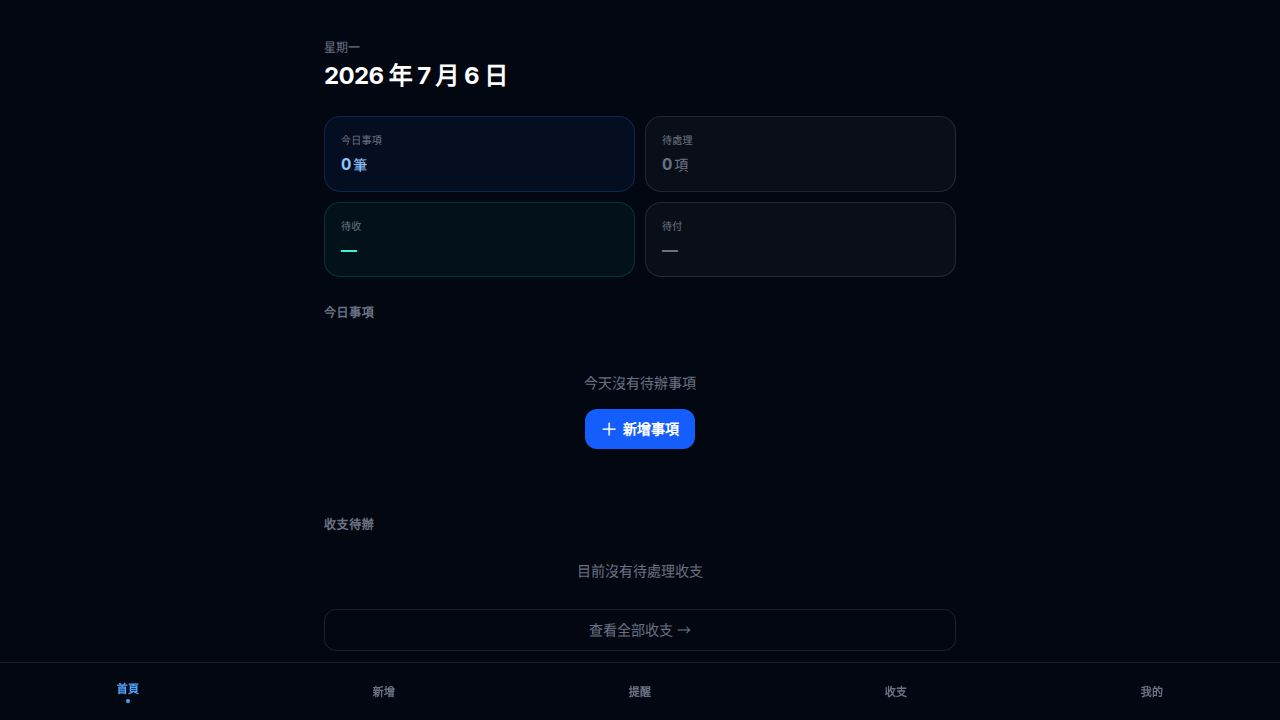
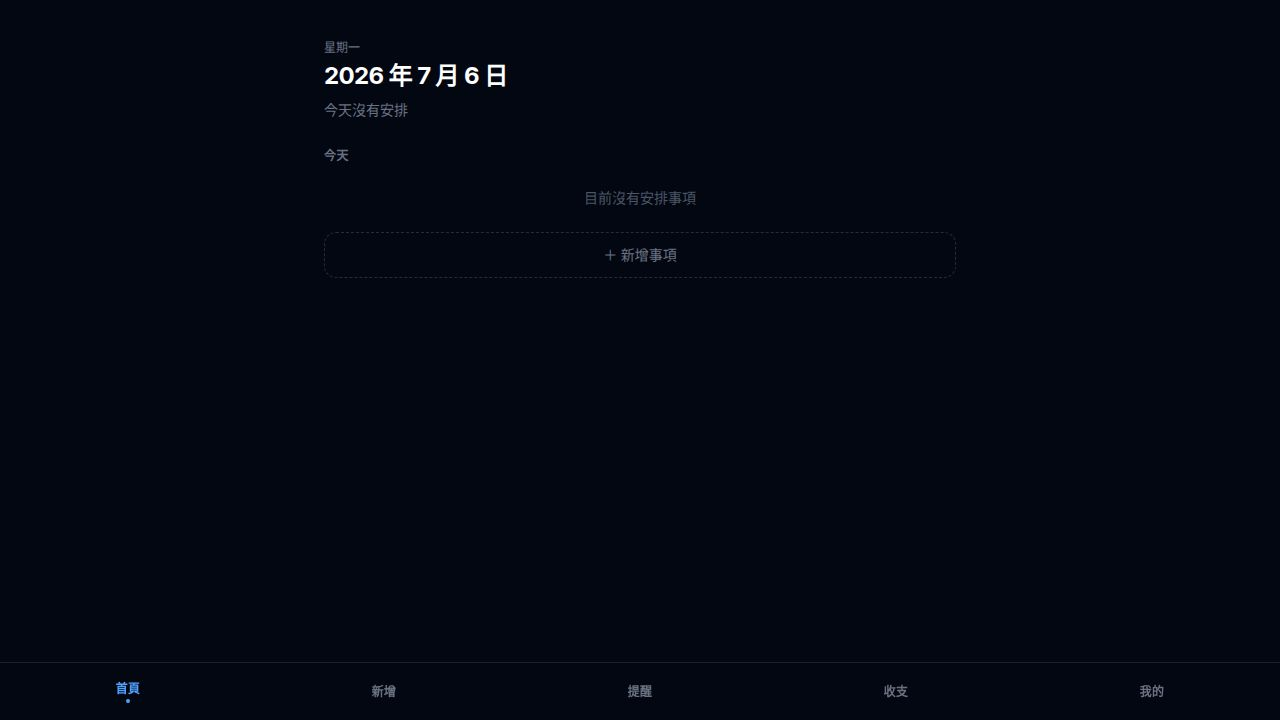
Add a confirmation prompt when deleting reminders with linked financial entries
Implement a confirmation dialog for deleting reminders that have associated financial entries, preventing accidental data loss.

Replit-Commit-Author: Agent
Replit-Commit-Session-Id: ae7b3811-7dad-4ecd-95f7-960ffc069649
Replit-Commit-Checkpoint-Type: full_checkpoint
Replit-Commit-Event-Id: eaf966d2-1296-41af-8bf6-cb78c412d6c8
Replit-Commit-Screenshot-Url: https://storage.googleapis.com/screenshot-production-us-central1/91c0c59d-1274-4273-bf61-4ce12e05dd7e/ae7b3811-7dad-4ecd-95f7-960ffc069649/od4HIWa
Replit-Helium-Checkpoint-Created: true

diff --git a/artifacts/lifepilot/src/App.tsx b/artifacts/lifepilot/src/App.tsx
@@ -860,13 +860,33 @@ export default function App() {
   const [createConfirmPending, setCreateConfirmPending] = useState(false);
   const [missingDateCount, setMissingDateCount] = useState(0);
 
-  function handleDeleteReminder(id: string) {
-    const entries = loadFinanceEntries();
-    const hasLinked = entries.some((e) => e.sourceReminderId === id);
-    if (hasLinked) {
-      saveFinanceEntries(entries.map((e) =>
-        e.sourceReminderId === id ? { ...e, sourceReminderId: undefined } : e
+  // ── Delete confirmation when reminder has linked FinanceEntries ──────────────
+  const [deleteFinancePrompt, setDeleteFinancePrompt] = useState<{
+    reminderId: string;
+    fromEdit: boolean;
+    linkedCount: number;
+  } | null>(null);
+
+  function executeDeleteReminder(reminderId: string, alsoDeleteFinance: boolean, fromEdit: boolean) {
+    const allEntries = loadFinanceEntries();
+    if (alsoDeleteFinance) {
+      saveFinanceEntries(allEntries.filter((e) => e.sourceReminderId !== reminderId));
+    } else {
+      saveFinanceEntries(allEntries.map((e) =>
+        e.sourceReminderId === reminderId ? { ...e, sourceReminderId: undefined } : e
       ));
+    }
+    setSavedReminders(deleteReminder(reminderId));
+    if (fromEdit) setEditingReminderId(null);
+    setDeleteFinancePrompt(null);
+  }
+
+  function handleDeleteReminder(id: string) {
+    const allEntries = loadFinanceEntries();
+    const linked = allEntries.filter((e) => e.sourceReminderId === id);
+    if (linked.length > 0) {
+      setDeleteFinancePrompt({ reminderId: id, fromEdit: false, linkedCount: linked.length });
+      return;
     }
     setSavedReminders(deleteReminder(id));
   }
@@ -893,12 +913,11 @@ export default function App() {
 
   function handleDeleteFromEdit() {
     if (!editingReminderId) return;
-    const entries = loadFinanceEntries();
-    const hasLinked = entries.some((e) => e.sourceReminderId === editingReminderId);
-    if (hasLinked) {
-      saveFinanceEntries(entries.map((e) =>
-        e.sourceReminderId === editingReminderId ? { ...e, sourceReminderId: undefined } : e
-      ));
+    const allEntries = loadFinanceEntries();
+    const linked = allEntries.filter((e) => e.sourceReminderId === editingReminderId);
+    if (linked.length > 0) {
+      setDeleteFinancePrompt({ reminderId: editingReminderId, fromEdit: true, linkedCount: linked.length });
+      return;
     }
     setSavedReminders(deleteReminder(editingReminderId));
     setEditingReminderId(null);
@@ -1053,6 +1072,8 @@ export default function App() {
 
         // Convert future-receivable amount → FinancialItem (type=receivable).
         // Clear item.amount so deriveFinancialItems in EditPage doesn't double-count.
+        // Set dueDate = event date so monthReceivable filter works even without an
+        // explicit payment due date in the message.
         const rawAmt = String(e.amount ?? "").replace(/[^\d.]/g, "");
         const amtNum = parseFloat(rawAmt);
         if (!isNaN(amtNum) && amtNum > 0) {
@@ -1061,6 +1082,7 @@ export default function App() {
             title: "待收款",
             type: "receivable",
             amount: amtNum,
+            dueDate: _startDateNorm || undefined,
           };
           item.financialItems = [fi];
           item.amount = ""; // prevent double-counting via legacy fallback path
@@ -1238,7 +1260,14 @@ export default function App() {
       financialStatus: item.financialStatus !== "none" ? item.financialStatus : undefined,
       expectedAmount: item.expectedAmount,
       financialDueDate: item.financialDueDate || undefined,
-      financialItems: item.financialItems?.length ? item.financialItems : undefined,
+      // Ensure every FinancialItem has a dueDate so monthReceivable/monthPayable
+      // filters can place it in the correct month. Fall back to the reminder's own date.
+      financialItems: item.financialItems?.length
+        ? item.financialItems.map((fi) => ({
+            ...fi,
+            dueDate: fi.dueDate || item.date || undefined,
+          }))
+        : undefined,
       workProfileId: item.workProfileId || undefined,
       templateData: item.templateData ?? undefined,
     }));
@@ -1622,6 +1651,55 @@ export default function App() {
             onClose={() => setShowWorkProfiles(false)}
             savedReminders={savedReminders}
           />
+        </div>
+      )}
+      {/* ── Delete reminder + linked finance confirmation dialog ────────────── */}
+      {deleteFinancePrompt && (
+        <div className="fixed inset-0 z-50 flex items-end sm:items-center justify-center bg-black/60 px-4 pb-6 sm:pb-0">
+          <div className="w-full max-w-sm rounded-2xl bg-gray-900 border border-white/10 p-5 shadow-2xl space-y-4">
+            <div>
+              <p className="text-base font-semibold text-white">刪除事項</p>
+              <p className="text-sm text-gray-400 mt-1.5">
+                此事項有 {deleteFinancePrompt.linkedCount} 筆關聯收支紀錄，
+                要一併刪除，還是保留收支紀錄？
+              </p>
+            </div>
+            <div className="space-y-2">
+              <button
+                type="button"
+                onClick={() =>
+                  executeDeleteReminder(
+                    deleteFinancePrompt.reminderId,
+                    true,
+                    deleteFinancePrompt.fromEdit,
+                  )
+                }
+                className="w-full py-3 rounded-xl bg-rose-600 hover:bg-rose-500 text-white font-semibold text-sm transition-colors"
+              >
+                一併刪除關聯收支
+              </button>
+              <button
+                type="button"
+                onClick={() =>
+                  executeDeleteReminder(
+                    deleteFinancePrompt.reminderId,
+                    false,
+                    deleteFinancePrompt.fromEdit,
+                  )
+                }
+                className="w-full py-3 rounded-xl bg-white/8 hover:bg-white/12 border border-white/10 text-gray-200 font-semibold text-sm transition-colors"
+              >
+                保留收支紀錄，僅刪除事項
+              </button>
+              <button
+                type="button"
+                onClick={() => setDeleteFinancePrompt(null)}
+                className="w-full py-2.5 rounded-xl text-gray-500 text-sm hover:text-gray-300 transition-colors"
+              >
+                取消
+              </button>
+            </div>
+          </div>
         </div>
       )}
       </main>

diff --git a/artifacts/lifepilot/src/pages/FinancePage.tsx b/artifacts/lifepilot/src/pages/FinancePage.tsx
@@ -160,12 +160,21 @@ export function FinancePage({ reminders: propReminders = [], onEditReminder, onR
     () => entries.filter((e) => e.type === "Expense"  && e.date.startsWith(prefix)),
     [entries, prefix],
   );
+  // Fall back to the reminder's own date when a FinancialItem has no explicit dueDate.
+  // This makes items without a separate due date appear in the correct month based on
+  // the event date, instead of being hidden from all monthly views.
   const monthReceivable = useMemo(
-    () => allReceivable.filter((r) => r.item.dueDate?.startsWith(prefix)),
+    () => allReceivable.filter((r) => {
+      const eff = r.item.dueDate || r.reminder.date;
+      return eff?.startsWith(prefix);
+    }),
     [allReceivable, prefix],
   );
   const monthPayable = useMemo(
-    () => allPayable.filter((r) => r.item.dueDate?.startsWith(prefix)),
+    () => allPayable.filter((r) => {
+      const eff = r.item.dueDate || r.reminder.date;
+      return eff?.startsWith(prefix);
+    }),
     [allPayable, prefix],
   );
 
@@ -186,12 +195,12 @@ export function FinancePage({ reminders: propReminders = [], onEditReminder, onR
     }
     if (filterType === "all" || filterType === "receivable") {
       monthReceivable.forEach((r) =>
-        items.push({ kind: "pending", pendingRef: r, sortDate: r.item.dueDate ?? "" }),
+        items.push({ kind: "pending", pendingRef: r, sortDate: r.item.dueDate || r.reminder.date || "" }),
       );
     }
     if (filterType === "all" || filterType === "payable") {
       monthPayable.forEach((r) =>
-        items.push({ kind: "pending", pendingRef: r, sortDate: r.item.dueDate ?? "" }),
+        items.push({ kind: "pending", pendingRef: r, sortDate: r.item.dueDate || r.reminder.date || "" }),
       );
     }
     return items.sort((a, b) => b.sortDate.localeCompare(a.sortDate));

diff --git a/.agents/memory/finance-reminder-sync.md b/.agents/memory/finance-reminder-sync.md
@@ -1,0 +1,31 @@
+---
+name: Finance-Reminder 同步關鍵規則
+description: FinancialItem.dueDate 必須有值；monthReceivable 篩選邏輯；刪除確認 modal
+---
+
+## 規則
+
+### 1. FinancialItem 必須有 dueDate
+- `mapAIEvents` 建立 Airport Transfer 的 `FinancialItem` 時，設 `dueDate: _startDateNorm || undefined`
+- `buildNewReminders` 保存時，對每個 FinancialItem：`dueDate: fi.dueDate || item.date || undefined`
+- 缺少 dueDate 會讓整筆款項在所有月份視圖中消失
+
+### 2. FinancePage monthReceivable/monthPayable 篩選用 effective date
+```ts
+const eff = r.item.dueDate || r.reminder.date;
+return eff?.startsWith(prefix);
+```
+- 不能只用 `r.item.dueDate?.startsWith(prefix)`——沒有 dueDate 就永遠不出現
+
+### 3. listItems sortDate 同樣用 effective date
+```ts
+sortDate: r.item.dueDate || r.reminder.date || ""
+```
+
+### 4. 刪除 reminder 時若有關聯 FinanceEntry
+- 顯示 `deleteFinancePrompt` modal，提供兩個選項：
+  - 「一併刪除關聯收支」→ filter out entries
+  - 「保留收支紀錄，僅刪除事項」→ unlink only (sourceReminderId = undefined)
+- 不可靜默處理
+
+**Why:** FinancialItem 是「待確認款項」，FinanceEntry 是「已確認款項」。待確認款項的月份歸屬取決於事件日期，而非單純的 dueDate 存在與否。

diff --git a/.agents/memory/MEMORY.md b/.agents/memory/MEMORY.md
@@ -1,2 +1,3 @@
 - [Time/date normalization](time-date-normalization.md) — normalizeTime/normalizeDate in utils.ts; always normalize before storing or displaying, never raw-slice time strings.
 - [FinancialItem 資料架構](financial-item-architecture.md) — v2 多筆款項清單設計；統一收支 UI（UnifiedAddForm 四類型：待收/待付/收入/支出）；confirm flow 防重複雙保險；deriveFinancialItems backward compat
+- [Finance-Reminder 同步關鍵規則](finance-reminder-sync.md) — FinancialItem 必須有 dueDate；monthReceivable filter 用 dueDate || reminder.date；刪除帶關聯收支的 reminder 需詢問